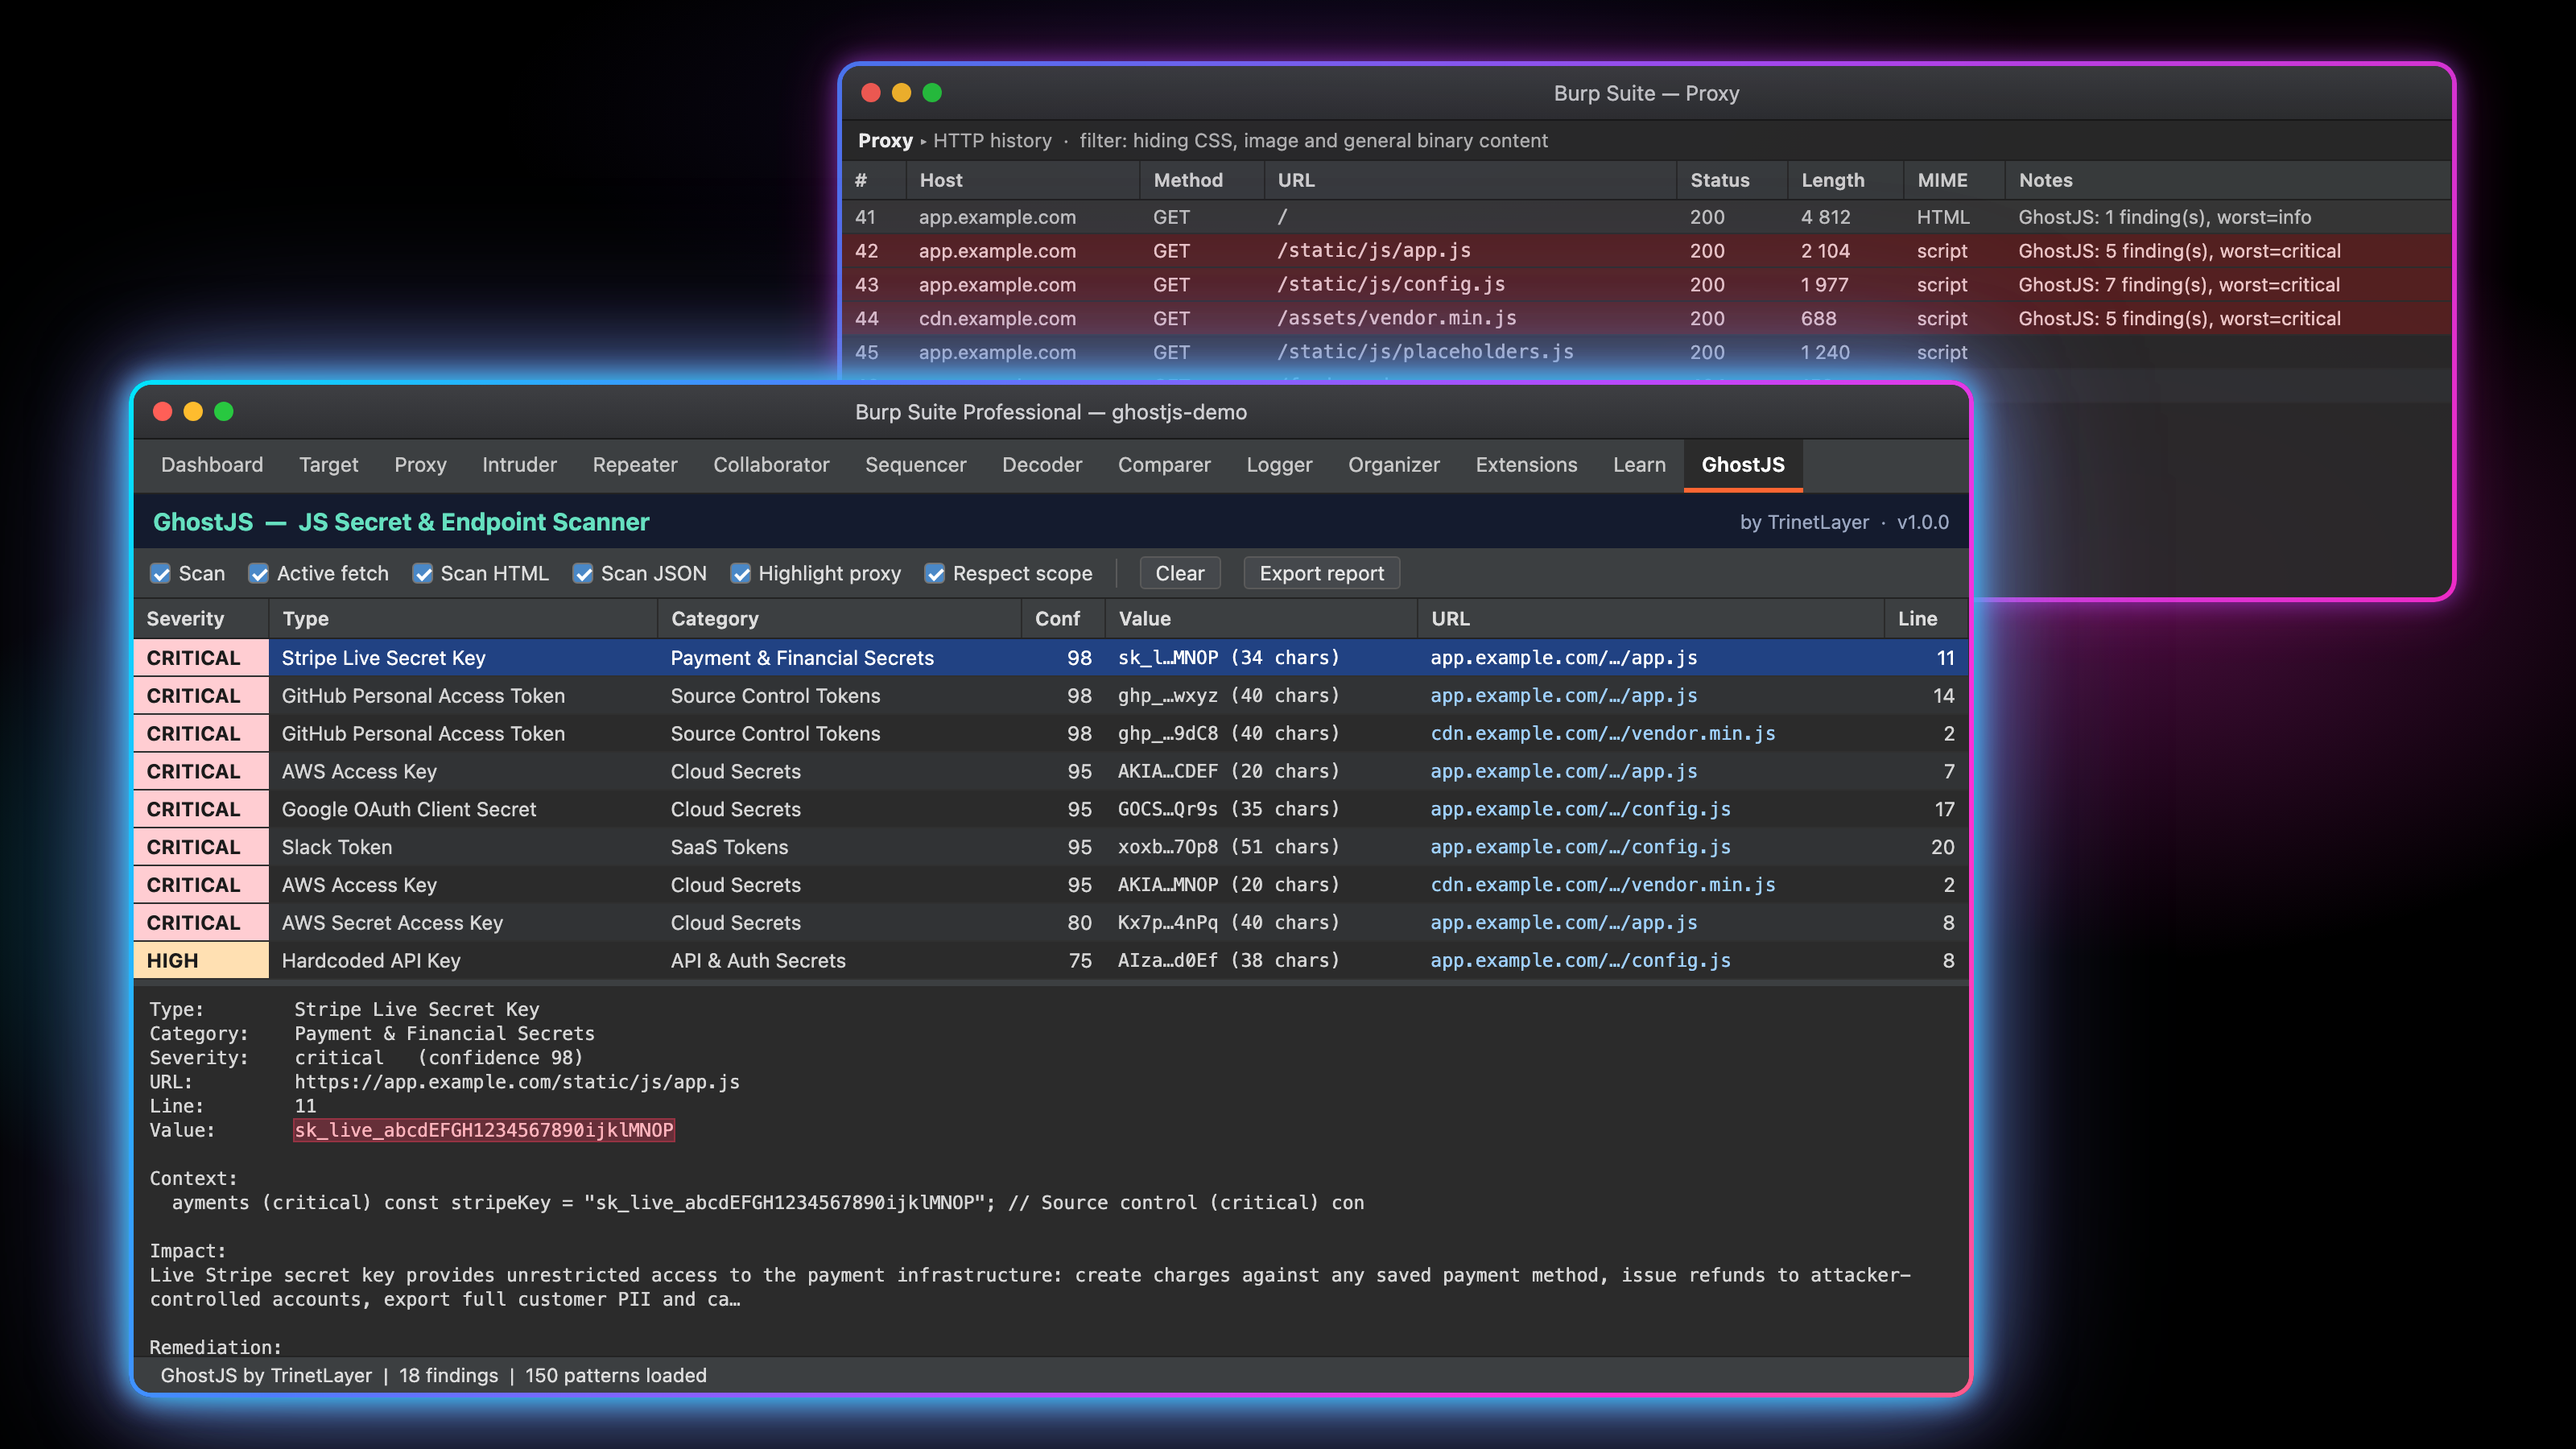
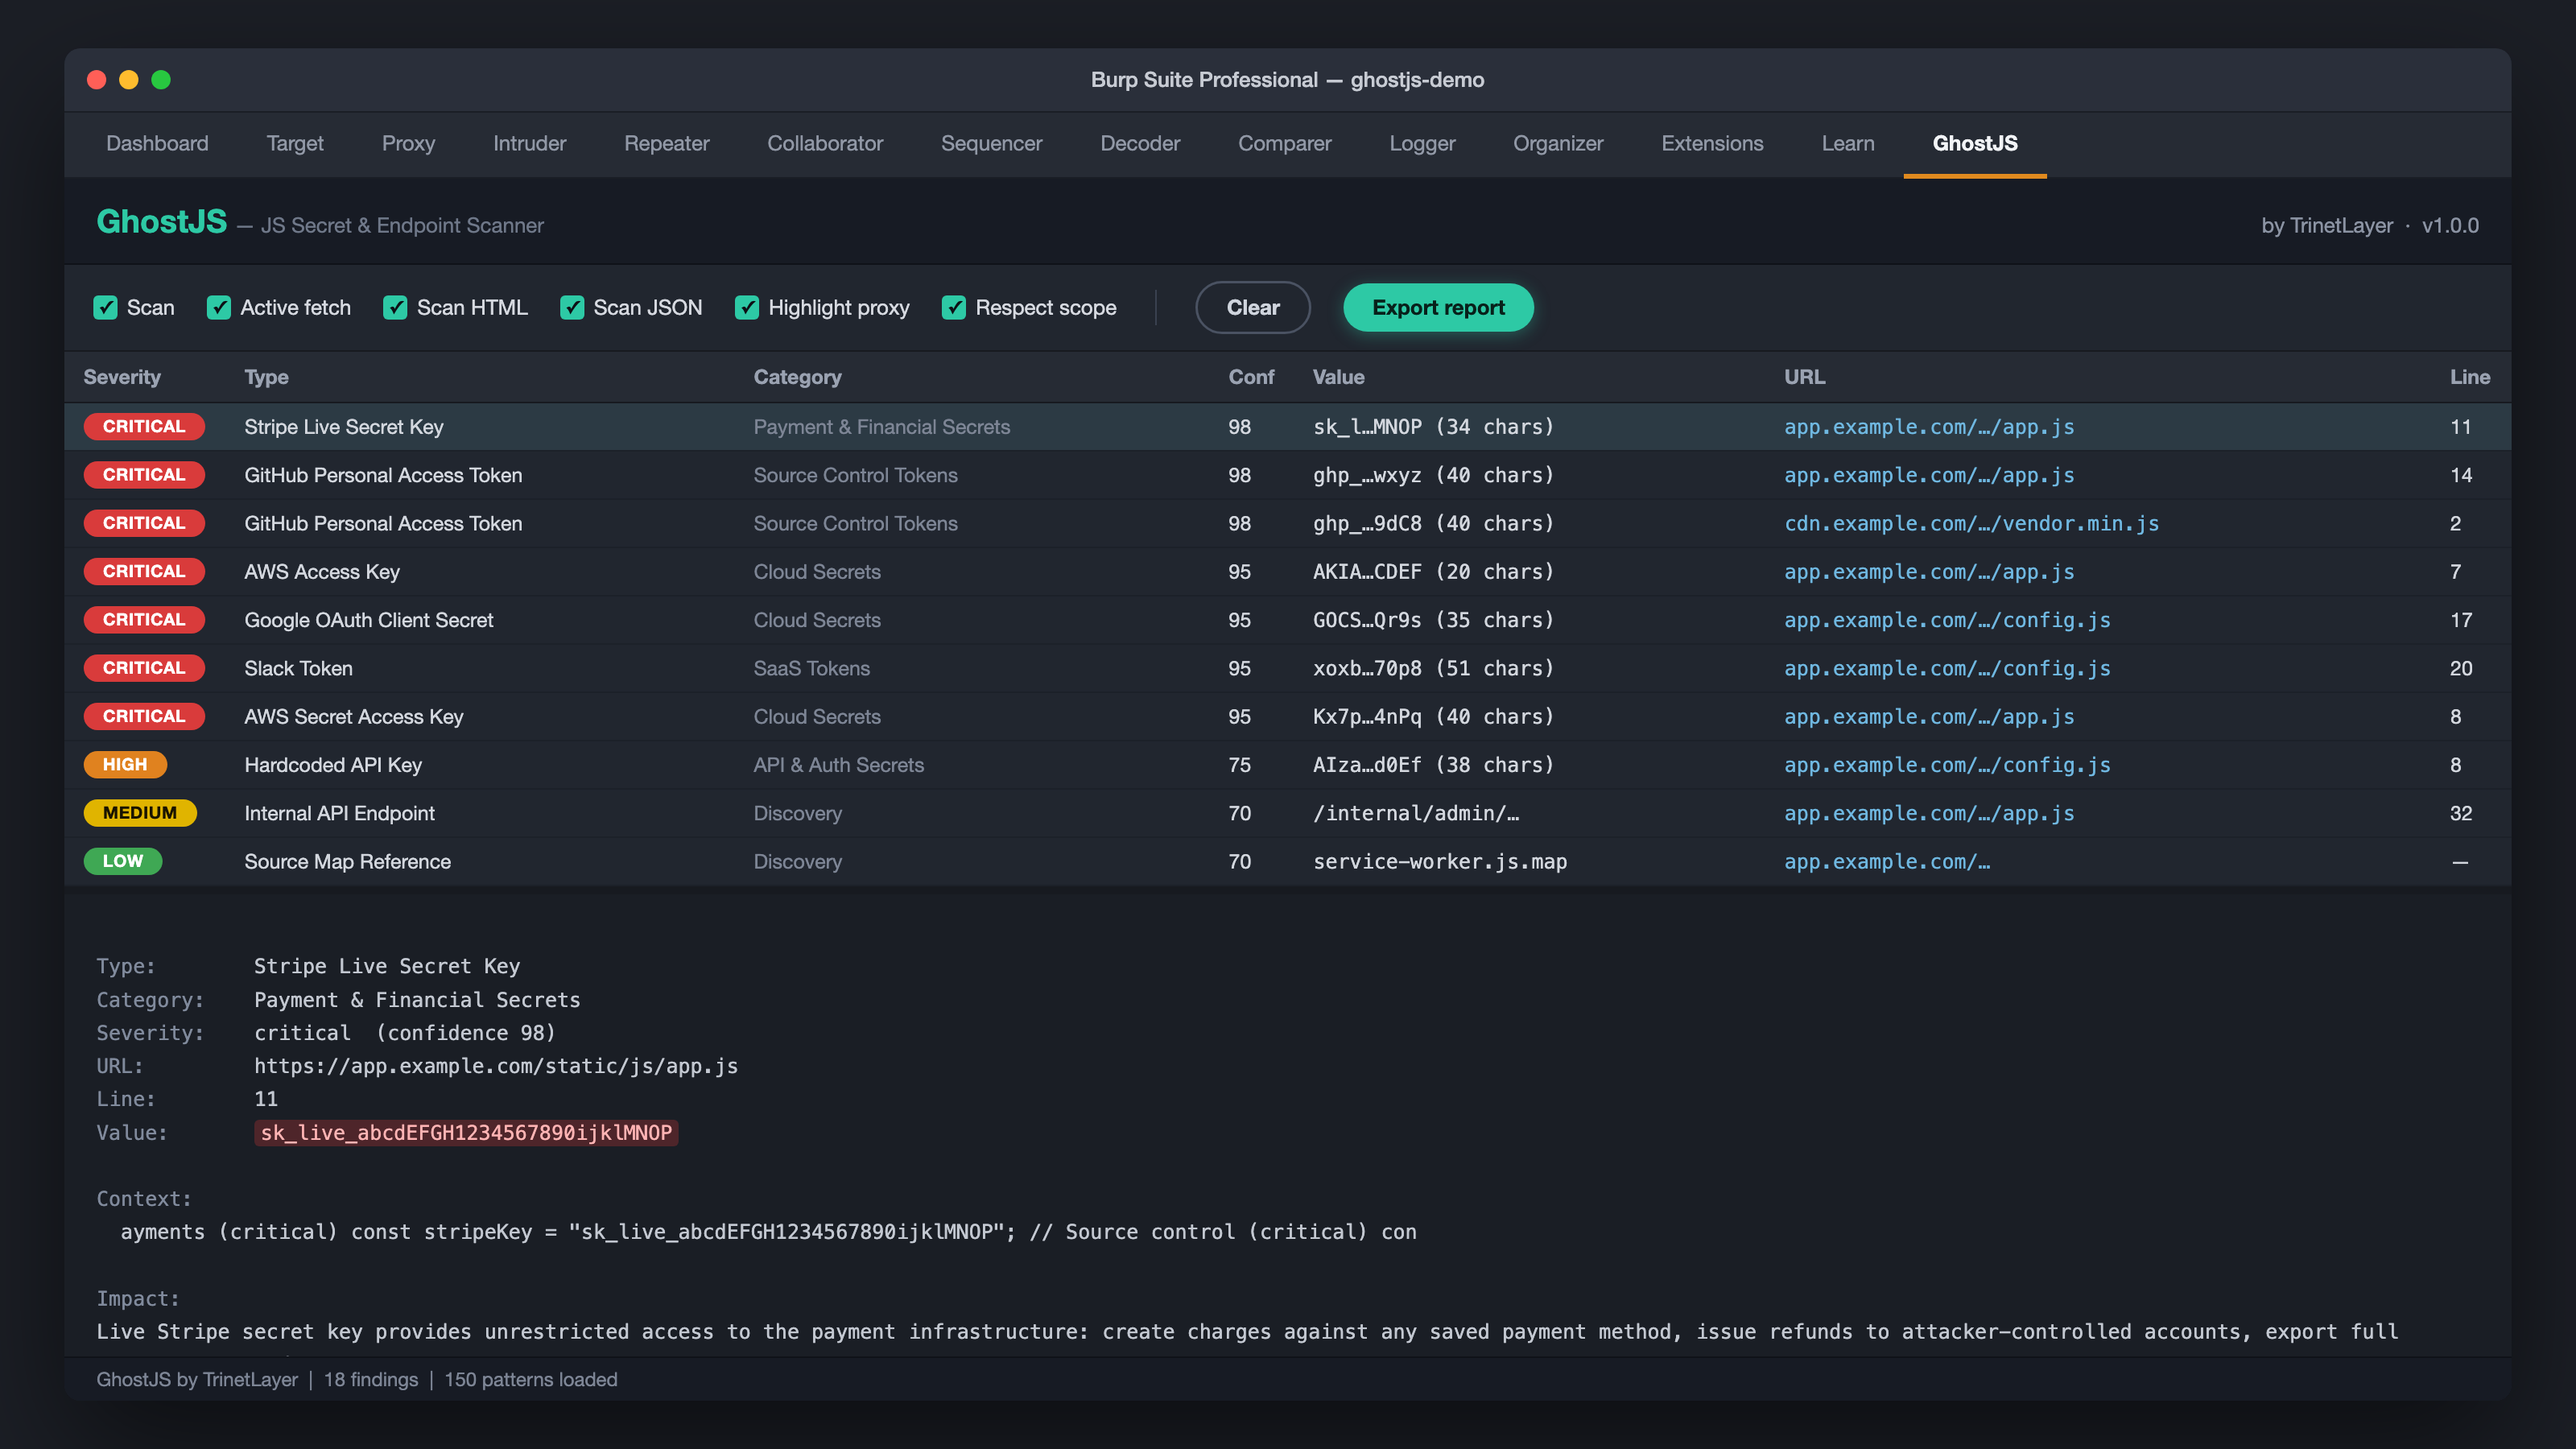
README: refresh findings screenshot for the new premium UI
Replaces the old two-window neon composite with a single, clean
window showcasing the redesigned GhostJS tab — rounded severity
pill badges and the accent-coloured Export report button — and
updates the surrounding caption/bullets to match.

diff --git a/README.md b/README.md
@@ -34,21 +34,21 @@ as you browse.
 
 ## Screenshot
 
-> Load the extension, browse a target, and the **GhostJS** tab fills with findings while the
-> matching Proxy-history rows light up by severity.
+> Load the extension, browse a target, and the **GhostJS** tab fills with findings — rendered
+> in a clean, modern flat UI with colour-coded severity badges.
 
-![GhostJS inside Burp Suite: the GhostJS tab with the findings table and detail pane, and behind it Proxy HTTP history with the JS responses highlighted red by severity](docs/ghostjs-findings.png)
+![GhostJS inside Burp Suite: the GhostJS tab with rounded severity pill badges, an accent-coloured Export report button, and a findings table and detail pane below](docs/ghostjs-findings.png)
 
 Real GhostJS output from the bundled [test target](#try-it-in-2-minutes) (all secrets fake,
 hostnames swapped for `example.com`):
 
-- **GhostJS tab** — toolbar toggles, then one row per unique secret with severity, type,
-  category, confidence (0–100), masked value, URL and line. 8 CRITICAL rows here: AWS access +
-  secret keys, Stripe live key, two GitHub PATs, Slack token, Google OAuth secret.
+- **GhostJS tab** — toolbar toggles, then one row per unique secret with a rounded severity
+  badge, type, category, confidence (0–100), masked value, URL and line. 8 CRITICAL rows here:
+  AWS access + secret keys, Stripe live key, two GitHub PATs, Slack token, Google OAuth secret.
 - **Detail pane** — click a row to see the full value, the surrounding code, a plain-English
   impact statement and numbered remediation steps. The table itself never prints a full
   secret (`sk_l…MNOP`).
-- **Proxy history** (window behind) — the same responses in Burp's HTTP history, coloured by
+- **Proxy history highlighting** — the same responses are coloured in Burp's HTTP history by
   worst severity (red = critical/high, orange = medium, yellow = low, gray = info) with a
   `GhostJS: N finding(s)` note, so you spot leaky bundles without leaving Proxy.
 - **Discovery rows** (LOW/INFO) — source-map reference, S3 URL, and API paths pulled from the
